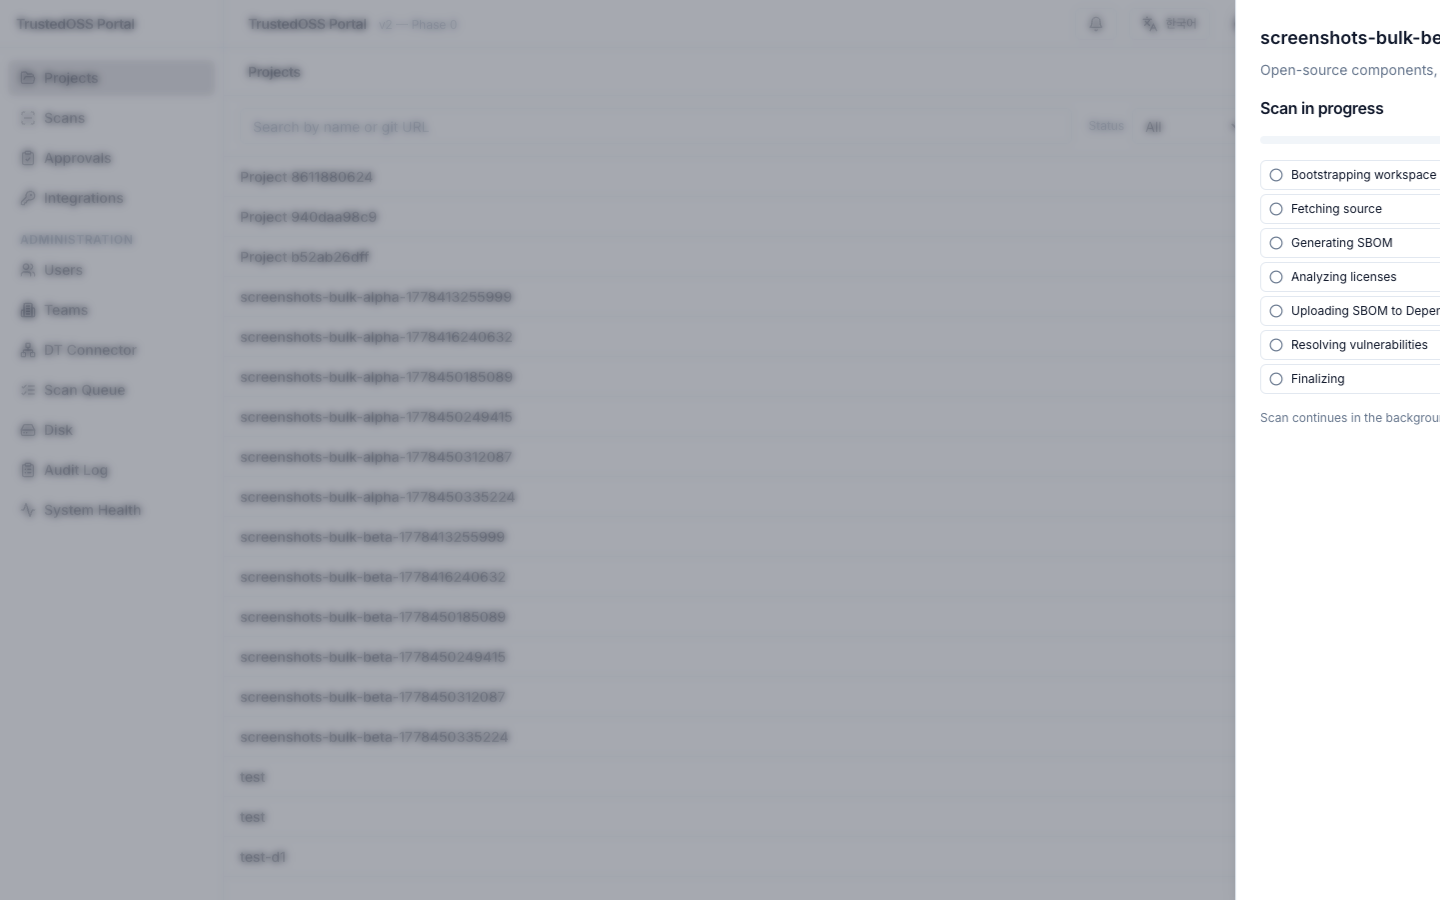
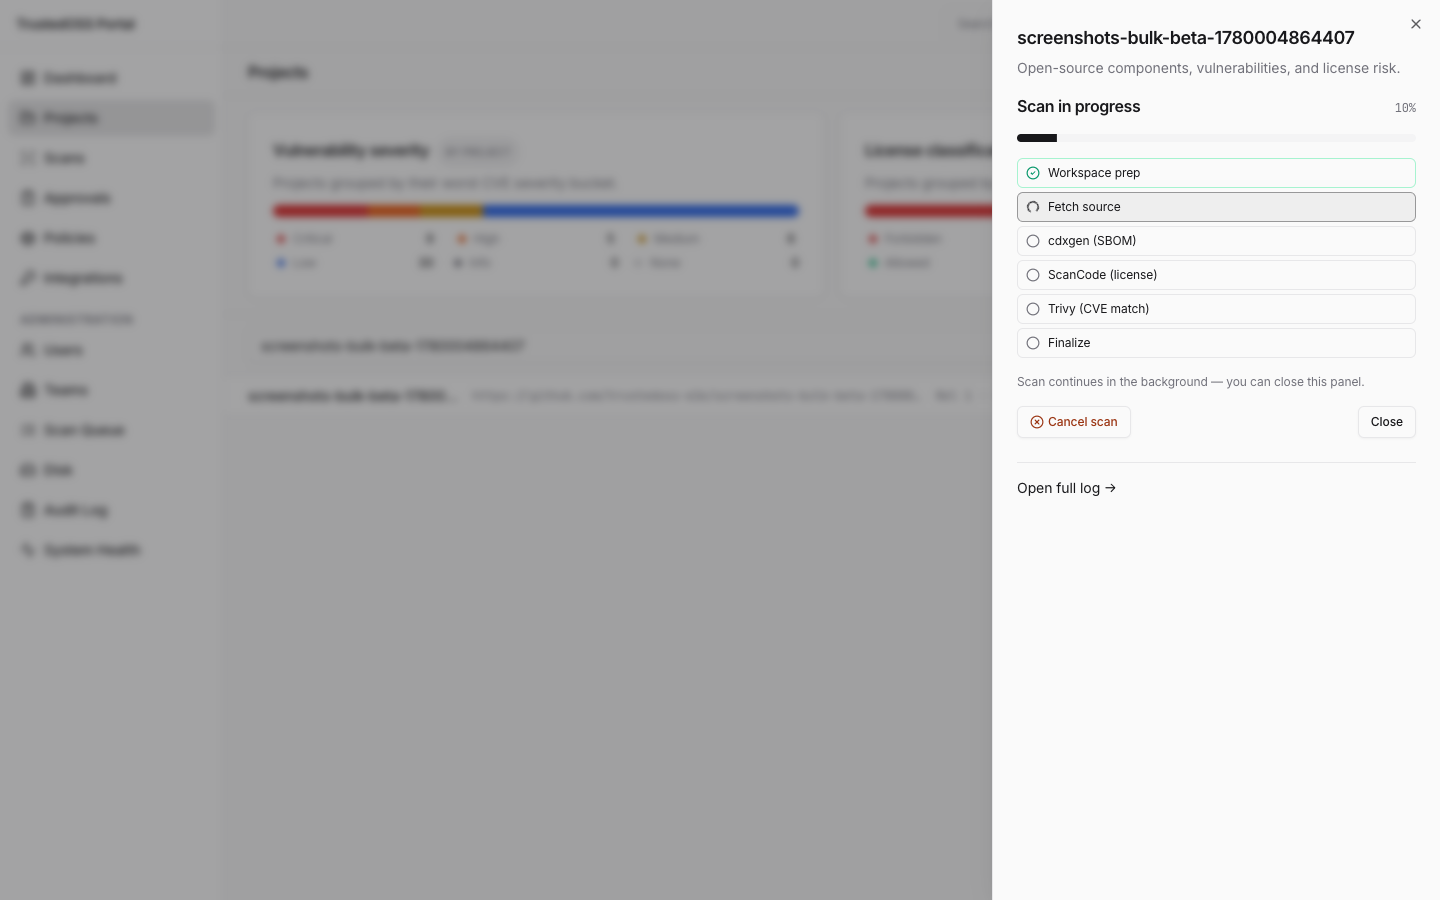
docs(screenshots): W4-C harness verbs + restore 3 capture references
Follow-up to #266 — finishes the screenshot regeneration loop:

1. Harness verbs (PortalPage.ts)
   The W4-C IA overhaul (W9-#58) collapsed the legacy `Licenses` and
   `Obligations` tabs into a unified `Compliance` grid driven by a
   `Has obligations` toggle. The harness verbs still targeted the
   deleted `compliance-subtab-licenses` / `compliance-subtab-obligations`
   chrome and the `licenses-tab` / `obligations-tab` sub-roots.
   - `selectLicensesTab` now lands on the Compliance tab and asserts the
     `Has obligations` toggle is OFF, waiting on `compliance-virtual` or
     `compliance-empty`. Mirrors the original semantics ("rows scoped to
     licenses").
   - `selectObligationsTab` clicks through to Compliance and flips the
     toggle ON, then waits the same way.
   - `expectLicensesTabReady` / `expectObligationsTabReady` updated to
     the unified compliance virtual/empty testids.
   - `clickTriggerScan` picks up the same toolbar-search fallback used
     by `openProjectDetail` (introduced in #266) so the freshly-seeded
     project isn't lost behind fixture leftovers from prior capture runs.

2. Capture regenerations (3 PNGs, all W11)
   With the verb fix in place `make screenshots-capture` now passes the
   final 3 cases that had timed out in #266:
   - `user-licenses-donut.png` — Compliance tab with distribution bar
   - `user-obligations-distribution.png` — same tab, Has obligations on
   - `user-scans-progress-drawer.png` — live scan progress drawer
[…]

diff --git a/apps/frontend/tests/_harness/PortalPage.ts b/apps/frontend/tests/_harness/PortalPage.ts
@@ -111,9 +111,19 @@ export class PortalPage {
     projectName: string,
     method: "git" | "upload" | "folder" = "git",
   ): Promise<void> {
-    await this.page
-      .locator(`[data-testid="project-row-scan"][data-project-name="${projectName}"]`)
-      .click();
+    const button = this.page.locator(
+      `[data-testid="project-row-scan"][data-project-name="${projectName}"]`,
+    );
+    // Same fixture-leftover fallback as `openProjectDetail`: when the row
+    // isn't on the visible page, narrow the list with the toolbar search.
+    if ((await button.count()) === 0) {
+      const search = this.page.getByTestId("project-search");
+      if (await search.count()) {
+        await search.fill(projectName);
+        await button.waitFor({ state: "visible", timeout: 5_000 });
+      }
+    }
+    await button.click();
     // PR #91: the scan button opens the source-select dialog first.
     await this.page
       .getByTestId("source-select-dialog")
@@ -846,25 +856,21 @@ export class PortalPage {
    * translated tab label.
    */
   /**
-   * Click the (W4-C) Compliance tab and switch to its Licenses sub-view. The
-   * IA overhaul (W4-C #20) absorbed the standalone Licenses tab into the
-   * unified Compliance tab; this verb still lands callers on the licenses
-   * surface so existing specs keep working without a sweep.
+   * Click the (W4-C → W9-#58) Compliance tab. The legacy standalone
+   * Licenses tab was absorbed into a unified Compliance grid; this verb
+   * keeps the original name so existing specs keep working. It ensures
+   * the `Has obligations` toggle is **off** so the grid shows the
+   * licenses-first view that `selectLicensesTab` historically promised.
    */
   async selectLicensesTab(): Promise<void> {
     await this.page.getByTestId("project-detail-tab-compliance").click();
     await this.page
       .getByTestId("compliance-tab")
       .waitFor({ state: "visible", timeout: 10_000 });
-    // Ensure we're on the Licenses sub-view (it is the default, but a prior
-    // navigation could have left ?cview=obligations in the URL).
-    const subtab = this.page.getByTestId("compliance-subtab-licenses");
-    if ((await subtab.getAttribute("data-state")) !== "active") {
-      await subtab.click();
+    const toggle = this.page.getByTestId("compliance-has-obligations");
+    if ((await toggle.getAttribute("data-state")) === "checked") {
+      await toggle.click();
     }
-    await this.page
-      .getByTestId("licenses-tab")
-      .waitFor({ state: "visible", timeout: 10_000 });
     await this.expectLicensesTabReady();
   }
 
@@ -875,8 +881,8 @@ export class PortalPage {
    * `waitForTimeout`.
    */
   async expectLicensesTabReady(): Promise<void> {
-    const virtual = this.page.getByTestId("licenses-virtual");
-    const empty = this.page.getByTestId("licenses-empty");
+    const virtual = this.page.getByTestId("compliance-virtual");
+    const empty = this.page.getByTestId("compliance-empty");
     await expect(virtual.or(empty)).toBeVisible({ timeout: 10_000 });
   }
 
@@ -981,28 +987,26 @@ export class PortalPage {
    * MIME without rolling their own download plumbing per spec.
    */
   /**
-   * Click the (W4-C) Compliance tab and switch to its Obligations sub-view.
-   * Same redirect note as {@link selectLicensesTab}.
+   * Click the (W4-C → W9-#58) Compliance tab and flip the `Has obligations`
+   * toggle on. The historical `selectObligationsTab` verb still resolves to
+   * a row set scoped to obligations-bearing components, matching what the
+   * original standalone Obligations tab showed.
    */
   async selectObligationsTab(): Promise<void> {
     await this.page.getByTestId("project-detail-tab-compliance").click();
     await this.page
       .getByTestId("compliance-tab")
       .waitFor({ state: "visible", timeout: 10_000 });
-    // The default sub-view is Licenses; switch over.
-    const subtab = this.page.getByTestId("compliance-subtab-obligations");
-    if ((await subtab.getAttribute("data-state")) !== "active") {
-      await subtab.click();
+    const toggle = this.page.getByTestId("compliance-has-obligations");
+    if ((await toggle.getAttribute("data-state")) !== "checked") {
+      await toggle.click();
     }
-    await this.page
-      .getByTestId("obligations-tab")
-      .waitFor({ state: "visible", timeout: 10_000 });
     await this.expectObligationsTabReady();
   }
 
   async expectObligationsTabReady(): Promise<void> {
-    const virtual = this.page.getByTestId("obligations-virtual");
-    const empty = this.page.getByTestId("obligations-empty");
+    const virtual = this.page.getByTestId("compliance-virtual");
+    const empty = this.page.getByTestId("compliance-empty");
     await expect(virtual.or(empty)).toBeVisible({ timeout: 10_000 });
   }
 

diff --git a/docs-site/docs/user-guide/components-and-licenses.md b/docs-site/docs/user-guide/components-and-licenses.md
@@ -80,6 +80,8 @@ A component can be reached by several paths at once (a "diamond" — two of your
 
 The **Compliance** tab on a project breaks down the same data by SPDX identifier and tier — a horizontal bar chart on top of the same table the Components tab uses, scoped to license rows (with the `Has obligations` toggle flipping the same surface into the obligations view; see [Obligations](#obligations)).
 
+![Project detail — Compliance tab with the tier distribution bar and per-license rows](/img/screenshots/user-licenses-donut.png)
+
 Every license is classified into one of four tiers. The **code value** column
 shows the value used in API responses, audit logs, and the build gate;
 the **UI label** column is what appears in tables and badges.
@@ -140,6 +142,8 @@ Each license carries **obligations** — duties you must honor when redistributi
 - **No endorsement** — do not use the project name to endorse derivatives without permission.
 
 The **Compliance** tab with the **Has obligations** toggle on consolidates obligations across components. Pick a NOTICE format (**text** or **HTML**) on the toolbar and click **Download NOTICE** to save a NOTICE document summarizing every attribution and license. The endpoint also serves a `markdown` variant via the API. See [SBOM → NOTICE file](./sbom.md#notice-file) for the format / MIME / extension table.
+
+![Project detail — Compliance tab with the Has obligations toggle on, showing the per-component obligations distribution](/img/screenshots/user-obligations-distribution.png)
 
 :::note Obligation kinds in this release
 The obligations catalog covers the seven kinds listed above. Some

diff --git a/docs-site/docs/user-guide/scans.md b/docs-site/docs/user-guide/scans.md
@@ -40,6 +40,8 @@ A right-slide drawer opens on the project list page with a live progress view ba
 If a project already has a `queued` or `running` scan, the **Scan** button is disabled on the project detail header and its tooltip points you at the in-progress chip in the header (clicking the chip re-opens the existing scan's progress drawer). Triggering a second scan via the API returns `409 Conflict` with the RFC 7807 extension `scan_already_in_progress: true` — wait for the active scan to reach a terminal state, or **Cancel** it, before starting another. The same guard applies to UI, API, and CI clients.
 :::
 
+![Scan progress drawer — bootstrap → fetch → cdxgen → scancode → vuln_match → finalize stages, live over WebSocket](/img/screenshots/user-scans-progress-drawer.png)
+
 :::warning Branch selection for source scans
 Source scans run against the project's `default_branch` (typically
 `main`). Neither the UI nor the API exposes a branch override in this

diff --git a/docs-site/i18n/ko/docusaurus-plugin-content-docs/current/user-guide/scans.md b/docs-site/i18n/ko/docusaurus-plugin-content-docs/current/user-guide/scans.md
@@ -36,6 +36,8 @@ sidebar_position: 2
 
 프로젝트 목록 페이지에서 우측 슬라이드 드로어가 열리며 WebSocket 기반의 실시간 진행 뷰가 표시됩니다. 탭을 닫아도 스캔은 워커에서 계속됩니다. 프로젝트를 다시 열면 언제든 재연결됩니다. 스캔이 `queued` 또는 `running` 인 동안 드로어에는 **Cancel scan**(스캔 취소) 동작이 함께 표시됩니다 — [스캔 취소](#스캔-취소) 참고.
 
+![스캔 진행 드로어 — bootstrap → fetch → cdxgen → scancode → vuln_match → finalize 단계, WebSocket 실시간 표시](/img/screenshots/user-scans-progress-drawer.png)
+
 :::note 프로젝트당 동시 스캔은 하나
 프로젝트가 이미 `queued` 또는 `running` 스캔을 가지고 있으면 프로젝트 상세 헤더의 **Scan** 버튼이 비활성화되고, 헤더의 진행중 칩(클릭 시 기존 스캔의 진행 드로어 재오픈)을 가리키는 툴팁이 표시됩니다. API 로 두 번째 스캔을 트리거하면 `409 Conflict` 와 RFC 7807 확장 필드 `scan_already_in_progress: true` 를 반환합니다 — 활성 스캔이 종료 상태에 도달하거나 **Cancel** 한 뒤 다시 시작하세요. 동일한 가드가 UI·API·CI 클라이언트에 적용됩니다.
 :::